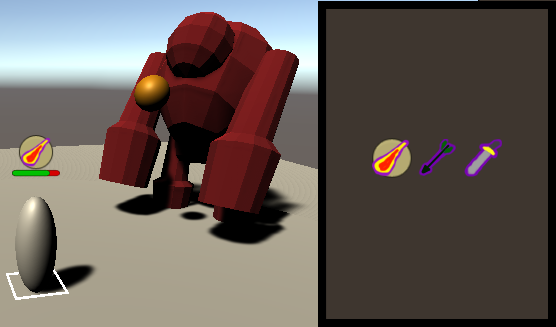
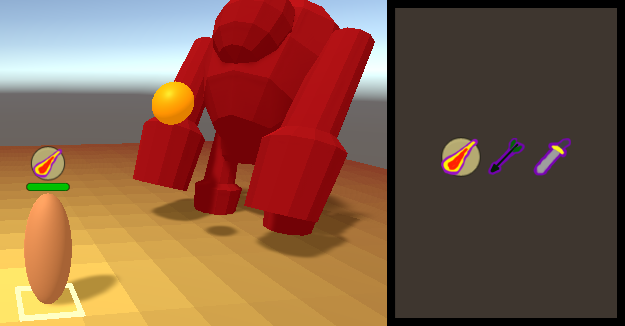
Update preview image and readme
Include a section in readme for users who haven't played Runescape

diff --git a/README.md b/README.md
@@ -2,13 +2,15 @@
 
 https://zantier.github.io/scuffed-jad/
 
+This is a Unity project that builds to WebGL, and should run in most browsers on PC. It doesn't really work on mobile.
+
 ![A preview image, showing scuffed Jad performing a magic attack and the player praying "protect from magic"](preview.png?raw=true)
 
-Practice prayer switching in the browser against an imitation TzTok-Jad from Old School RuneScape.
+Practice prayer switching in the browser against an imitation TzTok-Jad from Old School Runescape.
 
-Jad will only perform melee attacks when you stand next to it.
+Your health bar will show as green if you protected successfully.
 
-Your health does not drain. After an attack, your health displays as high or low, depending on whether you protected successfully or not.
+You can't attack Jad.
 
 ### Controls
 
@@ -17,3 +19,17 @@ Click: move, and switch prayers
 W, A, S, D, scroll: camera
 
 E, R: hide/show prayer panel
+
+### If you haven't played Runescape
+
+Click anywhere on the ground to move around.
+
+The 3 symbols in the bottom right are 3 prayers in the game called:
+- Protect from Magic
+- Protect from Missiles
+- Protect from Melee
+
+Click to activate them, and note that only 1 can be active at a time. These completely prevent you from
+taking Magic, Ranged, and Melee damage, respectively. See if you can figure out the correct prayers to
+activate, and get your health bar to appear green :). (You won't need Protect from Melee unless you stand
+right next to Jad)
